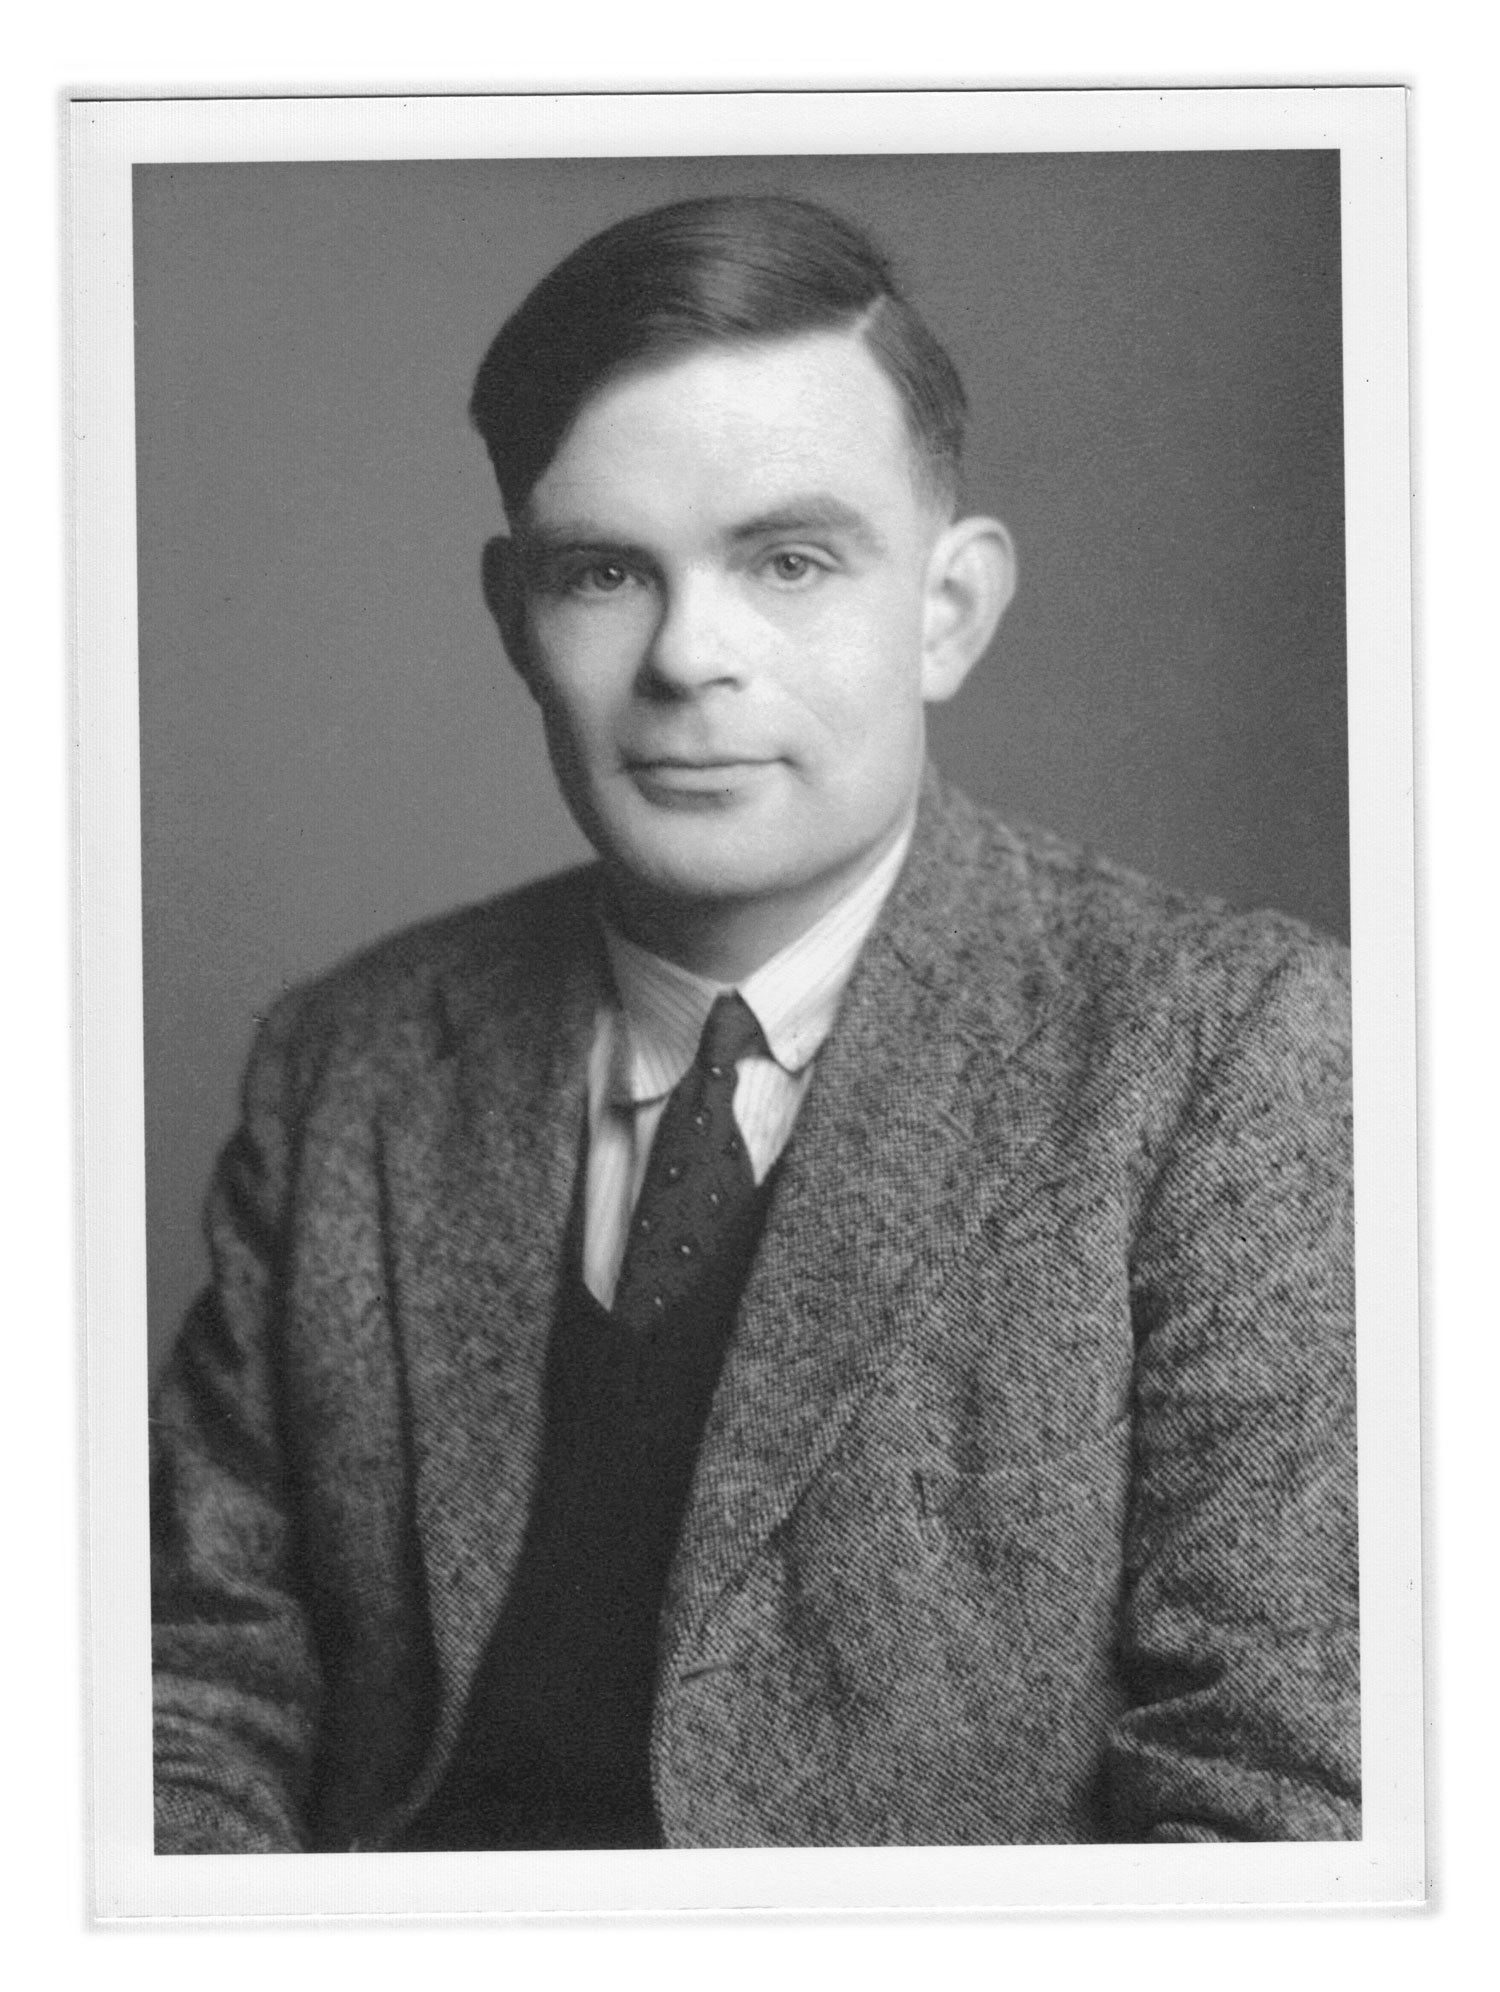
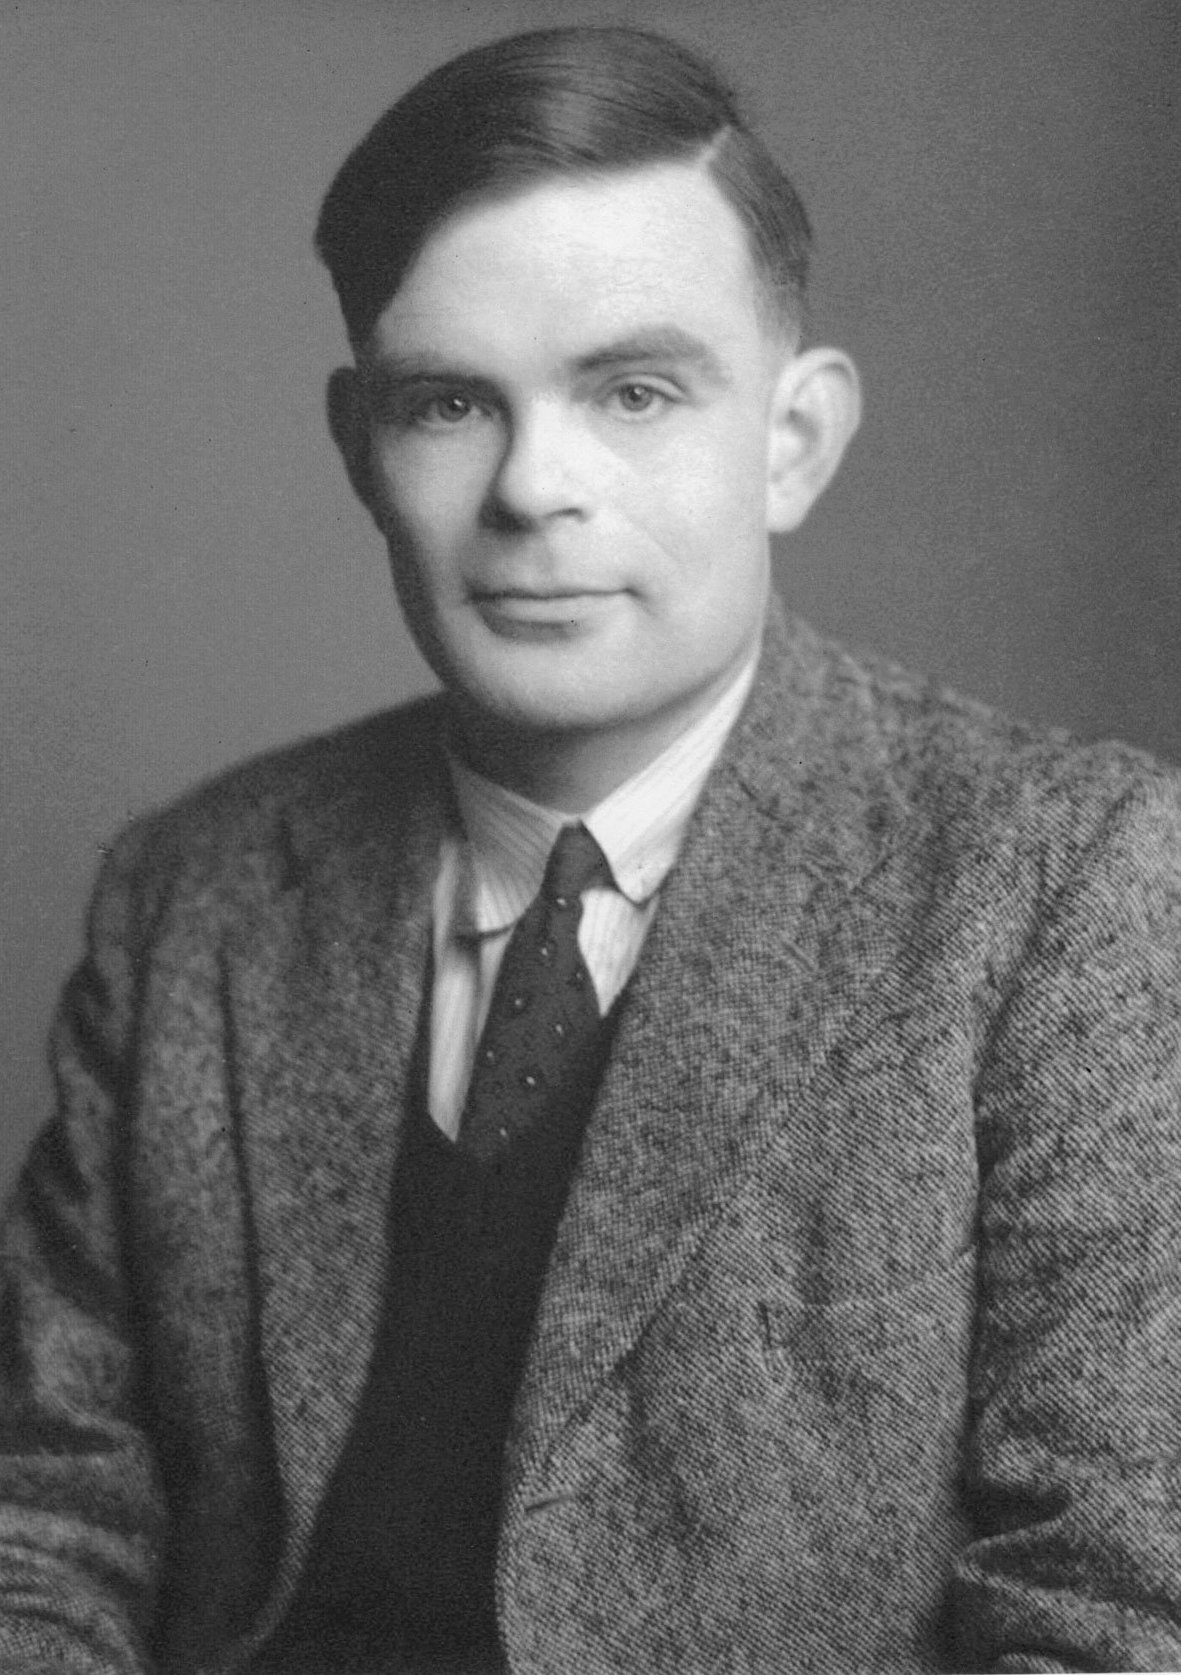
fixed image issues

diff --git a/db/seeds.rb b/db/seeds.rb
@@ -237,9 +237,9 @@ Character.create!([
                      "vitalikbuterin3.jpeg",
         ],
         title: [ 'Ethereum Co-Founder',
-         'Decentralized Networking',
+         'Decentralized Computing',
         'Ethereum Core Developer',
-         'Crypto-Economics',
+        'Crypto-Economics',
     ],
     },
     {
@@ -263,8 +263,8 @@ Character.create!([
         link: 'https://en.wikipedia.org/wiki/Alan_Turing',
         image: [ "alanturing.jpeg",
                     "alanturing.jpeg",
-                    "alanturing2.jpeg",
-                     "alanturing2.jpeg",
+                    "alanturing3.jpeg",
+                     "alanturing4.jpeg",
         ],
         title: [ "Computer Scientist",
          "Cryptanalyst",
